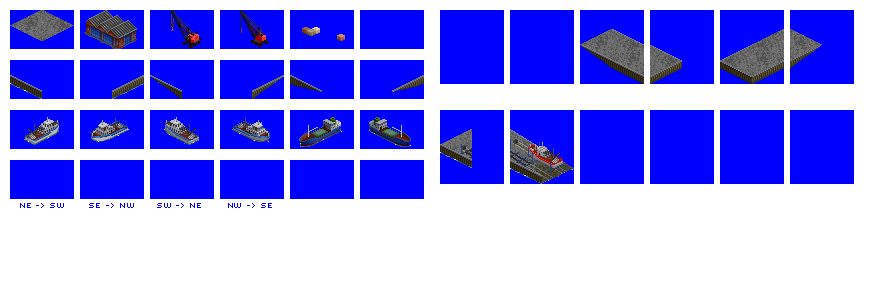
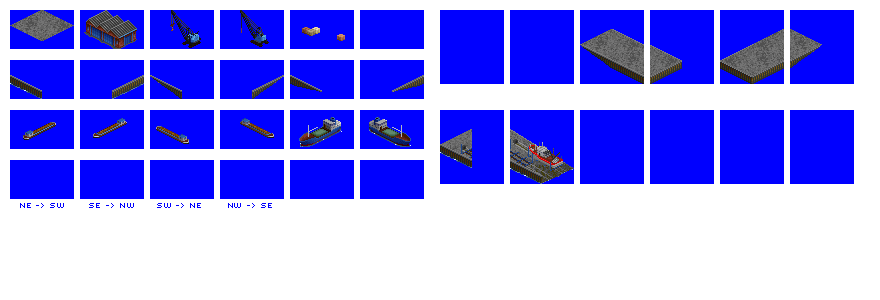
Change: make Port appearance slightly different to Fishing Harbour

Changed region(s): [[0.0307, 0.39, 0.3068, 0.48], [0.2761, 0.12, 0.3068, 0.15], [0.2148, 0.12, 0.2455, 0.15]]

diff --git a/src/industries/port.py b/src/industries/port.py
@@ -146,16 +146,6 @@ spriteset_16 = industry.add_spriteset(
 )
 spriteset_17 = industry.add_spriteset(
     id = 'port_spriteset_17',
-    sprites = [(440, 110, 64, 74, -31, -26)],
-    always_draw = 1
-)
-spriteset_18 = industry.add_spriteset(
-    id = 'port_spriteset_18',
-    sprites = [(510, 110, 64, 74, -31, -42)],
-    always_draw = 1
-)
-spriteset_19 = industry.add_spriteset(
-    id = 'port_spriteset_19',
     sprites = [(360, 10, 64, 39, -31, 0)],
     zoffset = 18,
 )
@@ -164,55 +154,55 @@ industry.add_spritelayout(
     id = 'port_spritelayout_1',
     ground_sprite = spriteset_ground_empty,
     ground_overlay = spriteset_ground_empty,
-    building_sprites = [spriteset_2, spriteset_1, spriteset_19]
+    building_sprites = [spriteset_2, spriteset_1, spriteset_17]
 )
 industry.add_spritelayout(
     id = 'port_spritelayout_2',
     ground_sprite = spriteset_ground_empty,
     ground_overlay = spriteset_ground_empty,
-    building_sprites = [spriteset_3, spriteset_1, spriteset_19]
+    building_sprites = [spriteset_3, spriteset_1, spriteset_17]
 )
 industry.add_spritelayout(
     id = 'port_spritelayout_3',
     ground_sprite = spriteset_ground_empty,
     ground_overlay = spriteset_ground_empty,
-    building_sprites = [spriteset_2, spriteset_3, spriteset_1, spriteset_19]
+    building_sprites = [spriteset_2, spriteset_3, spriteset_1, spriteset_17]
 )
 industry.add_spritelayout(
     id = 'port_spritelayout_4',
     ground_sprite = spriteset_ground_empty,
     ground_overlay = spriteset_ground_empty,
-    building_sprites = [spriteset_3, spriteset_4, spriteset_1, spriteset_19]
+    building_sprites = [spriteset_3, spriteset_4, spriteset_1, spriteset_17]
 )
 industry.add_spritelayout(
     id = 'port_spritelayout_5',
     ground_sprite = spriteset_ground_empty,
     ground_overlay = spriteset_ground_empty,
-    building_sprites = [spriteset_5, spriteset_4, spriteset_1, spriteset_19]
+    building_sprites = [spriteset_5, spriteset_4, spriteset_1, spriteset_17]
 )
 industry.add_spritelayout(
     id = 'port_spritelayout_6',
     ground_sprite = spriteset_ground_empty,
     ground_overlay = spriteset_ground_empty,
-    building_sprites = [spriteset_5, spriteset_2, spriteset_1, spriteset_19]
+    building_sprites = [spriteset_5, spriteset_2, spriteset_1, spriteset_17]
 )
 industry.add_spritelayout(
     id = 'port_spritelayout_7',
     ground_sprite = spriteset_ground_empty,
     ground_overlay = spriteset_ground_empty,
-    building_sprites = [spriteset_6, spriteset_1, spriteset_19]
+    building_sprites = [spriteset_6, spriteset_1, spriteset_17]
 )
 industry.add_spritelayout(
     id = 'port_spritelayout_8',
     ground_sprite = spriteset_ground_empty,
     ground_overlay = spriteset_ground_empty,
-    building_sprites = [spriteset_6, spriteset_7, spriteset_1, spriteset_19]
+    building_sprites = [spriteset_6, spriteset_7, spriteset_1, spriteset_17]
 )
 industry.add_spritelayout(
     id = 'port_spritelayout_9',
     ground_sprite = spriteset_ground_empty,
     ground_overlay = spriteset_ground_empty,
-    building_sprites = [spriteset_7, spriteset_1, spriteset_19]
+    building_sprites = [spriteset_7, spriteset_1, spriteset_17]
 )
 industry.add_spritelayout(
     id = 'port_spritelayout_10',
@@ -341,18 +331,6 @@ industry.add_spritelayout(
     building_sprites = [spriteset_2, spriteset_3, spriteset_1, spriteset_9b]
 )
 industry.add_spritelayout(
-    id = 'port_spritelayout_31',
-    ground_sprite = sprite_ground,
-    ground_overlay = spriteset_ground_empty,
-    building_sprites = [spriteset_17]
-)
-industry.add_spritelayout(
-    id = 'port_spritelayout_32',
-    ground_sprite = sprite_ground,
-    ground_overlay = spriteset_ground_empty,
-    building_sprites = [spriteset_18]
-)
-industry.add_spritelayout(
     id = 'port_spritelayout_null',
     ground_sprite = spriteset_ground_empty,
     ground_overlay = spriteset_ground_empty,
@@ -408,12 +386,12 @@ industry.add_industry_layout(
     layout = [(0, 0, 'port_tile_2', 'port_slope_switch_2'),
               (0, 1, 'port_tile_1', 'port_spritelayout_11'),
               (0, 2, 'port_tile_1', 'port_spritelayout_1'),
-              (0, 3, 'port_tile_1', 'port_spritelayout_1'),
-              (0, 4, 'port_tile_1', 'port_spritelayout_28'),
+              (0, 3, 'port_tile_1', 'port_spritelayout_29'),
+              (0, 4, 'port_tile_1', 'port_spritelayout_13'),
               (0, 5, '255', 'port_spritelayout_null'),
               (1, 0, 'port_tile_2', 'port_slope_switch_1'),
-              (1, 1, 'port_tile_1', 'port_spritelayout_31'),
-              (1, 2, 'port_tile_1', 'port_spritelayout_32'),
+              (1, 1, 'port_tile_1', 'port_spritelayout_28'),
+              (1, 2, 'port_tile_1', 'port_spritelayout_25'),
               (1, 4, 'port_tile_1', 'port_spritelayout_25'),
               (1, 5, '255', 'port_spritelayout_null'),
               (2, 3, '255', 'port_spritelayout_null'),
@@ -427,8 +405,8 @@ industry.add_industry_layout(
               (1, 0, 'port_tile_1', 'port_spritelayout_3'),
               (1, 2, '255', 'port_spritelayout_null'),
               (2, 0, 'port_tile_1', 'port_spritelayout_3'),
-              (2, 1, 'port_tile_1', 'port_spritelayout_31'),
-              (2, 2, 'port_tile_1', 'port_spritelayout_32'),
+              (2, 1, 'port_tile_1', 'port_spritelayout_29'),
+              (2, 2, 'port_tile_1', 'port_spritelayout_13'),
               (2, 3, '255', 'port_spritelayout_null'),
               (3, 0, 'port_tile_1', 'port_spritelayout_30'),
               (3, 1, 'port_tile_1', 'port_spritelayout_13'),
